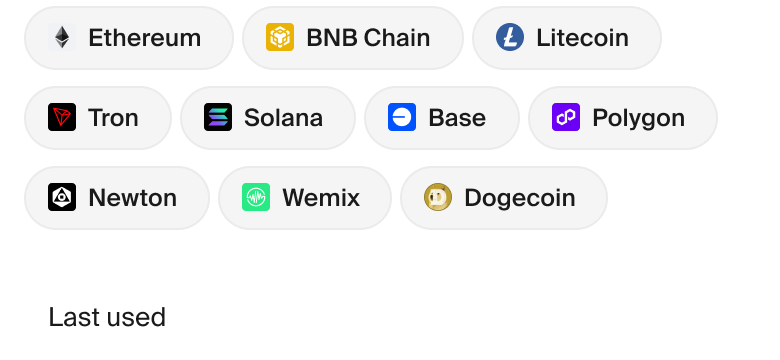
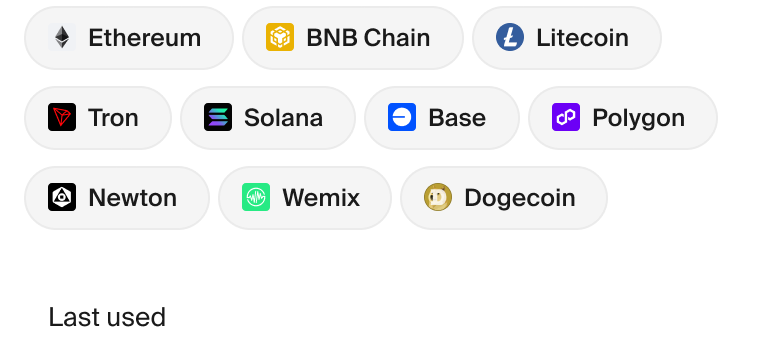
Tighten network overlay and crypto selector spacing

diff --git a/converter-mobile/buy.js b/converter-mobile/buy.js
@@ -38,7 +38,7 @@ const assetNetworkTriggerLabel = document.querySelector('[data-role="asset-netwo
 const assetNetworkTriggerIcon = document.querySelector('[data-role="asset-network-trigger-icon"]');
 const assetNetworkRow = document.querySelector('[data-role="asset-network-row"]');
 const assetNetworkButtons = [...document.querySelectorAll('[data-role="asset-network"]')];
-const ASSET_MODAL_VERSION = "20260402-network-open-screen";
+const ASSET_MODAL_VERSION = "20260402-network-overlay";
 const isLikelyMobileUserAgent = /Android|webOS|iPhone|iPad|iPod|BlackBerry|IEMobile|Opera Mini/i.test(
   navigator.userAgent,
 );
@@ -324,16 +324,14 @@ function closeAssetModal() {
 function updateAssetModalImage() {
   let nextImage = `./assets/screens/select-asset-exact.png?v=${ASSET_MODAL_VERSION}`;
 
-  if (assetNetworkMenuOpen) {
-    nextImage = `./assets/screens/select-asset-all-networks.png?v=${ASSET_MODAL_VERSION}`;
-  } else if (selectedAssetNetwork) {
+  if (selectedAssetNetwork) {
     nextImage = `./assets/screens/select-asset-network-solana.png?v=${ASSET_MODAL_VERSION}`;
   }
 
   if (assetModalImage.getAttribute("src") !== nextImage) {
     assetModalImage.setAttribute("src", nextImage);
   }
-  assetModal.dataset.overlay = "default";
+  assetModal.dataset.overlay = assetNetworkMenuOpen ? "network-open" : "default";
 }
 
 function openAssetModal() {
@@ -352,7 +350,7 @@ function updateAssetFilterUi() {
   const useStaticSelectedNetwork = !assetNetworkMenuOpen && Boolean(selectedAssetNetwork);
 
   assetNetworkClear.hidden = !useStaticSelectedNetwork;
-  assetNetworkTrigger.hidden = assetNetworkMenuOpen || useStaticSelectedNetwork;
+  assetNetworkTrigger.hidden = useStaticSelectedNetwork;
 
   if (selectedAssetNetwork) {
     assetNetworkTriggerLabel.textContent = "Solana";

diff --git a/converter-mobile/buy.css b/converter-mobile/buy.css
@@ -767,7 +767,7 @@ body {
   width: 121px;
   max-width: 121px;
   height: 48px;
-  padding: 4px 16px 4px 4px;
+  padding: 4px 24px 4px 4px;
   gap: 8px;
   background: #f5f5f6;
   border-color: #ebebeb;
@@ -1684,7 +1684,7 @@ body {
   position: absolute;
   left: 0;
   right: 0;
-  top: 252px;
+  top: 258px;
   display: block;
   width: 100%;
   height: auto;
@@ -1705,12 +1705,12 @@ body {
   position: absolute;
   left: 0;
   right: 0;
-  top: 596px;
-  height: 120px;
-  background: #ffffff;
-  z-index: 1;
-  pointer-events: none;
+  top: 428px;
+  height: 86px;
   display: block;
+  background: #ffffff;
+  z-index: 2;
+  pointer-events: none;
 }
 
 .asset-modal[data-overlay="network-open"] .asset-modal__network-control-cover {
@@ -1862,9 +1862,9 @@ body {
 
 .asset-modal__network-option--cluster {
   left: 12px;
-  top: 252px;
+  top: 258px;
   width: 360px;
-  height: 228px;
+  height: 170px;
 }
 
 .browser-nav {
